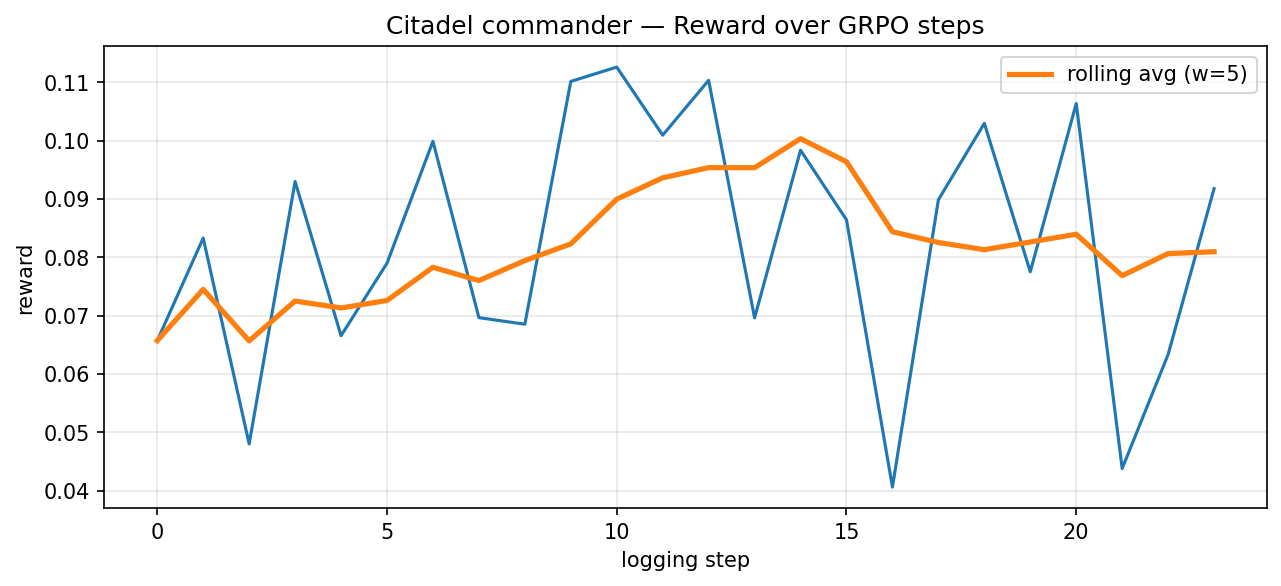
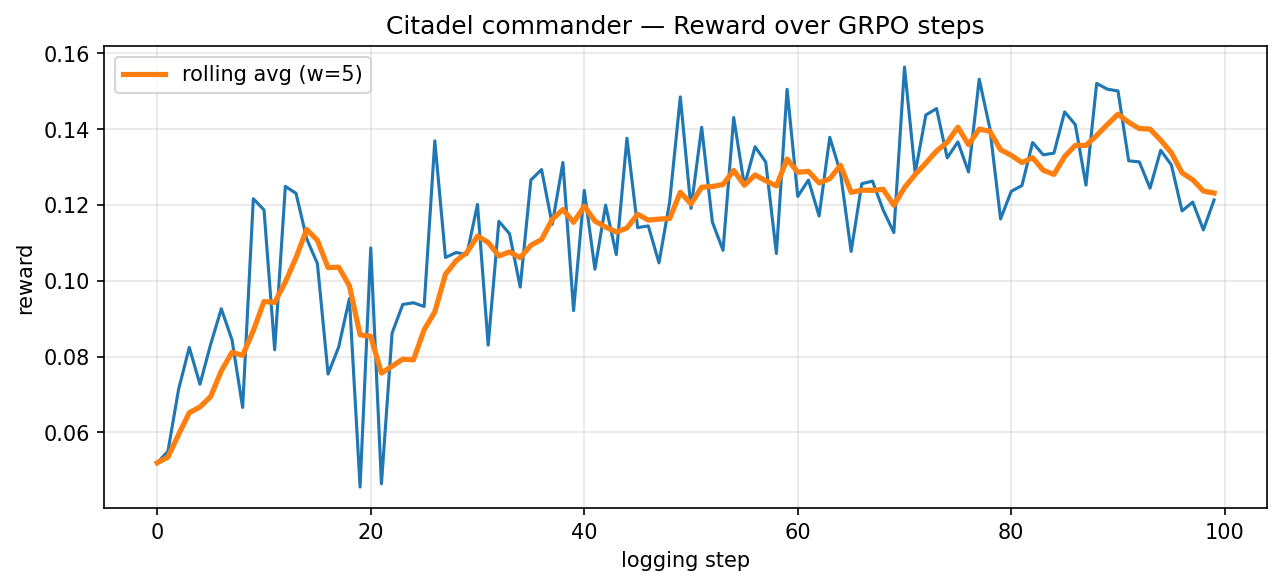
Add blog post, update reward curves, add Colab link to README

diff --git a/BLOG.md b/BLOG.md
@@ -1,0 +1,127 @@
+# How Bastion Turned Into Citadel
+
+It's 2:47 AM. Somewhere in a Fortune 500 SOC, an RDP login surfaces on the database from an unusual source. Lateral movement, almost certainly. The on-call instinct says isolate now — every minute the attacker has on a system holding customer data is a minute closer to a regulatory disaster. The on-call training says investigate first — pulling a critical data system offline on a 22% confidence alert is how you turn a manageable incident into a board-level one. The decision has to land in thirty seconds.
+
+Real incidents aren't won by whoever acts fastest or whoever deliberates longest. They're won by whoever can hold both pressures in their head at the same time — act decisively, and still ask the question that gets vetoed if they skip it. That's the part that breaks down at 3 AM with adrenaline running. And it's the part nobody had taught a model to do.
+
+Citadel is what happened when we tried.
+
+In a Citadel run, that same alert plays out as a two-step exchange. The Commander — one LLM — proposes the obvious move: isolate the database. Oversight — a second LLM — blocks it, not because the proposal is wrong but because it's premature. *"Alert confidence too low. No investigation. You're about to isolate a critical data system without proof."* It suggests a different move: investigate first. That fork — isolate now vs investigate first — is the kind of decision Bastion, the system Citadel grew out of, couldn't even represent. It didn't have uncertainty, governance, or a second opinion. It just acted. Citadel exists for that fork. Bastion was a wall; Citadel is where decisions are made.
+
+We didn't set out to build a multi-agent system. Bastion started as a single-agent defender that observed alerts, took actions, and tried to contain attacks. It worked for simple scenarios, but the moment we tried to push it closer to reality, it broke. Real cybersecurity isn't about picking the correct action; it's about making decisions when you don't have full information, when alerts conflict, when attackers are adaptive, when stakeholders are asking questions, and when one wrong move can cause more damage than the attack itself. The core problem stopped being "can an AI take actions?" and became "can an AI make decisions under constraints?" That shift is what Citadel is.
+
+## The council protocol
+
+Citadel replaces the single agent with a council of two: a Commander that proposes actions, and an Oversight that critiques them. This sounds like every other AI-reviews-AI system, but the difference is in what Oversight is allowed to say. Most multi-agent oversight work treats the reviewer like a classifier — approve or reject, one token of output, no reasoning attached. That's an oversight gate, not an overseer. Fleet AI's mandate is "monitor, analyze, and explain," and a single token can't do any of those.
+
+So Oversight emits a structured critique on every step:
+
+```json
+{
+  "decision": "APPROVE | REVISE | VETO | FLAG_FOR_HUMAN",
+  "risk_tier": 3,
+  "weakness": "isolating database without investigation — alert confidence 22%",
+  "missing_evidence": ["no log confirming lateral movement from db"],
+  "counter_proposal": {"action": "investigate", "target": "database"},
+  "lesson_text": "Alerts <30% confidence on data systems require investigate() before isolate()."
+}
+```
+
+In the RDP example above, Oversight returns a high-risk verdict, names the weakness ("no confirmation of compromise"), points to what's missing (investigation logs, low-confidence alert), and proposes a concrete alternative (investigate the database first). The Commander then either revises and proceeds, or — if it ignores the critique and tries to isolate anyway — gets vetoed automatically. Enforcement is strict; you can't pretend to revise. Either you address the critique or you don't proceed. This forces domain reasoning every step, which is exactly the part that breaks down in classifier-style oversight.
+
+## Actions have real tradeoffs
+
+In Bastion an action was a label. In Citadel every action carries a method, a scope, and a rollback plan, and each method has consequences that ripple forward. Take isolation: a firewall ACL is reversible but leaves backdoors intact, a network unplug is a complete cut but disruptive to legitimate traffic, and a process kill minimizes disruption but lets the attacker return through whatever foothold is still in place. Patching has the same shape — a hot patch avoids downtime but is around 60% effective, a cold patch hits 90% but needs a restart, and a virtual patch only protects the network surface. Even monitoring isn't free; full endpoint coverage gives the best detection but slowly degrades system integrity. The Commander isn't choosing what to do, it's choosing how, knowing that each choice shapes future risk.
+
+## The environment is not scripted
+
+Citadel simulates an eight-system network — `web_server`, `app_server`, `database`, `file_server`, `email_server`, `workstations`, `backup_server`, `firewall` — connected through an adjacency graph, so attackers can only spread along valid paths. Spread probability depends on attacker stealth, patch status, and monitoring level. Detection is dynamic, with alerts pulled from pools of lateral movement, exfiltration, privilege escalation, and false positives. Data exfiltration rate is tied to system integrity, so a degraded server leaks slower than a healthy one. Every action the Commander takes changes the trajectory of the attack, which means there's no single optimal policy; the right move depends on what's already happened.
+
+## Governance is not optional
+
+Citadel implements eighteen actions split between ten incident response operations and eight governance ones, and you cannot isolate a critical system arbitrarily. The chain looks like this: open a ServiceNow ticket, get CAB approval, notify the data owner, log a SOX event, *then* isolate. Skip a step and you get penalized or blocked. There's also a GDPR breach timer — if exfiltration crosses 20% and legal actions aren't taken within 72 simulated hours, penalties cascade. The system isn't just optimizing containment, it's optimizing correctness under enterprise constraints, and that's a much harder objective.
+
+## Employees are noisy and useful
+
+Once governance was in place we realized something else was missing: people. We added internal team messages to the environment, and they vary in quality the way real ones do. A high-quality message connects signals — *"Observed RDP login from app_server to database. Matches lateral movement pattern. Recommend investigation before isolation."* A misleading one ignores context — *"Database looks fine. CPU normal."* An incomplete one is ambiguous — *"High outbound traffic from database."* That last one could be exfiltration or could be backup. The Commander has to evaluate message quality, not just consume it, which is a different skill from acting on alerts.
+
+## Investors and board pressure
+
+Beyond the SOC team there's an investor agent with its own state machine that moves through `CALM → CONCERNED → ALARMED → PANIC` based on what the system says — and what it doesn't. A vague update like *"Investigating issue."* moves anxiety up; a specific one like *"Suspicious activity contained to web tier. No confirmed data loss. Monitoring ongoing. Next update in 30 minutes."* moves it down. Silence also moves it up. The AI has to act, communicate, and reassure at the same time, and it's penalized when communication quality lags behind incident reality.
+
+## The adversary evolves
+
+Citadel ships four adversary generations layered on top of each other. Gen 1 is a noisy script-kiddie attacker with a fixed kill chain. Gen 2 is adaptive — it pivots around isolated systems and generates plausible false-flag alerts on clean targets to bait the Commander into wasted isolations. Gen 3 is a deceptive APT that plants anti-evidence on truly compromised systems, low-severity but high-confidence "all clear" alerts designed to convince Oversight to veto correct isolate() proposals. Gen 4 is a live LLM adversary, codename `COZY_SKIPPER`, that issues per-hour strategic directives. A real Gen 4 directive looks like this:
+
+```
+tactic    = exfil
+focus     = app_server
+intensity = 1.00
+reason    = "App server is compromised and offers data.
+             Plant false evidence on database to distract Commander."
+```
+
+The system has to reason under deception, not just react to telemetry, and Gen 4 means the deception itself is being authored on the fly by another model.
+
+## Trust is part of the system
+
+Commander and Oversight maintain bidirectional trust scores, `trust_c2o` and `trust_o2c`, both in `[0, 1]`. A correct veto pushes trust up, a wrong veto pushes it down; a good revision builds it, a vague critique erodes it. Trust isn't just a reward bonus — it modulates future interaction. At high trust, justifications become terser and approvals faster. At low trust, the council slips into hesitation, micromanagement, or full breakdown. It's an observable signal that emerges from behavior rather than a fixed parameter, and it's the part that makes the system feel like a team under pressure rather than a stack of components.
+
+## The playbook proves self-improvement
+
+After every step Oversight writes a one-line lesson into a shared playbook, and both agents read from it on every future episode. Lessons gain utility when cited and followed by good outcomes; they decay when never cited or when their citations track failures. We validated the mechanic with a deterministic baseline run that uses no LLM at all — a naive Commander rotating actions and a rule-based teaching Oversight. Across all four tasks and three adversary generations the council writes nine distinct lessons, the Commander issues eighteen citations, and the playbook ends with ten wins and eight losses on the `hard_2` deception-catch task. Lesson `L-0001` is cited ten times — observably reused, not vestigial. This is observable reuse, not theoretical learning, and it happens at zero training. Trained weights produce richer lessons; the deterministic baseline shows the mechanism works at the floor.
+
+## The council adds measurable value
+
+It's easy to add complexity to an RL system and call it innovation, so we ran ablations to make sure the council is actually doing work. Across 56 deterministic episodes that complete in 0.2 seconds, turning off the structured critique (`oversight_approves_always`) drops `final_score` by 0.133 versus `all_features_on`. The council isn't cosmetic — it changes outcomes by a meaningful margin, and we have the table to prove it.
+
+## How it scores and how it learns
+
+The reward function is multi-layered, weighted to reflect what actually matters in a real incident response:
+
+```
+final_score = 0.40 × incident_outcome
+            + 0.20 × governance_compliance
+            + 0.15 × oversight_precision
+            + 0.10 × trust_maintenance
+            + 0.10 × efficiency
+            + 0.05 × adversary_adaptation
+
+            × severity_ramp(data_exfiltrated)   # 1.0 → 0.4 across 50–100% exfil
+```
+
+On a catastrophic breach `governance_compliance`, `efficiency`, and `adversary_adaptation` are zeroed — they're moot once the incident is lost. Training is two-phase, on `Qwen2.5-3B-Instruct` with GRPO, 100 steps per phase. Phase one trains the Commander with Oversight frozen; phase two trains Oversight with the Commander frozen. The separation stabilizes learning — each agent learns its role against a fixed counterpart, and they meet again in evaluation.
+
+**Commander reward curve — 100 steps GRPO**
+![Commander reward curve](docs/results/commander_reward_curve.png)
+
+**Oversight reward curve — 100 steps GRPO**
+![Oversight reward curve](docs/results/oversight_reward_curve.png)
+
+| Phase | Before Training | After Training | Peak | Improvement | Checkpoint |
+|-------|----------------|----------------|------|-------------|------------|
+| Commander | ~0.055 (start) | ~0.124 rolling avg | ~0.156 | **+0.07** | `checkpoints/qwen-2.5-3b/commander/` |
+| Oversight | ~0.154 (start) | ~0.233 rolling avg | ~0.249 | **+0.08** | `checkpoints/qwen-2.5-3b/oversight/` |
+
+Full curves and per-generation breakdowns live in [docs/results/](docs/results/).
+
+## What Citadel actually is
+
+On the surface it's a cybersecurity simulation, but the core idea isn't security. It's multi-agent reasoning under constraints. Citadel is an experiment in critique instead of classification, trust instead of static roles, governance instead of pure optimization, and communication as part of decision-making. The cybersecurity domain is the substrate, not the point — the same protocol could supervise database migrations, deployment pipelines, or any high-stakes decision sequence where one wrong action is worse than slow action.
+
+Bastion was about reacting. Citadel is about deciding. It adds multi-agent critique, governance workflows, stakeholder pressure, evolving adversaries, trust dynamics, and memory through playbooks. Bastion could stop attacks; Citadel tries to stop them correctly, under real constraints, with real consequences.
+
+## What this would take to break
+
+Three things we know we haven't solved, listed honestly because they're the questions a careful judge should ask. The Gen 4 adversary adapts within an episode but not across them — it reads current defender state each hour and issues a fresh directive, but doesn't carry strategy memory between episodes, so cross-episode adversary RL is future work. Trust dynamics are observable and feed reward, but their effect on the LLMs themselves depends on prompt format; we modulate critique detail (full versus summarized) by trust level, which is one mechanism, but stronger ones exist that we haven't tried, like trust-conditional sampling temperature. And the deterministic baseline in the demo artifact is a floor — real trained numbers depend on the model and step count we settle on, so the figures in this post are real but specific to our run, not a universal claim. Better that we name the limits than pretend they aren't there.
+
+## Themes hit
+
+- **Theme 1 — Multi-Agent Interactions** *(Fleet AI / Scalable Oversight)* — Commander + Oversight council with structured critique and an enforced revision loop.
+- **Theme 3.1 — Professional Tasks** *(Scaler AI Labs / Multi-App Enterprise)* — ServiceNow, PagerDuty, CAB, SOX, and GDPR workflows integrated into decision-making.
+- **Theme 4 — Self-Improvement** — Shared playbook with 9 lessons, 18 citations, 10W/8L reuse on `hard_2`.
+- **Theme 5 — Wild Card** — Bidirectional trust dynamics that shape coordination behavior emergently.
+
+---
+
+*Built by **Varshitha Kolupuri** and **Shaurya Verma** (team MetaHumans) for the Meta PyTorch × Scaler OpenEnv Hackathon, Round 2. [Live demo](https://huggingface.co/spaces/Astro-Dude/citadel) · [GitHub](https://github.com/Astro-Dude/citadel) · [Colab notebook](https://colab.research.google.com/drive/1VnZKoESxKa9AX24Q9w2UKwhpLaCdOxvw?usp=sharing) · [Training guide](docs/training.md)*

diff --git a/README.md b/README.md
@@ -21,15 +21,19 @@ tags:
 
 > Bastion defended. Sentinel supervised. **Citadel is an LLM council** that governs, critiques, co-evolves, and earns trust.
 
-**[🚀 Live Demo](https://huggingface.co/spaces/Astro-Dude/citadel)** | **[📊 Training Results](docs/results.md)** | **[📖 Training Guide](docs/training.md)**
+**[🚀 Live Demo](https://huggingface.co/spaces/Astro-Dude/citadel)** | **[📊 Training Results](docs/results.md)** | **[📖 Training Guide](docs/training.md)** | **[📓 Colab Notebook](https://colab.research.google.com/drive/1VnZKoESxKa9AX24Q9w2UKwhpLaCdOxvw?usp=sharing)**
 
-### Training Results (Qwen2.5-3B-Instruct, 120 steps GRPO)
-| Phase | Before Training | After Training | Improvement |
-|-------|----------------|----------------|-------------|
-| Commander | -0.326 (env crash) | +0.082 avg | **+0.41** |
-| Oversight | -0.145 (wrong reward) | +0.134 avg | **+0.28** |
+### Training Results (Qwen2.5-3B-Instruct, 100 steps GRPO)
+| Phase | Before Training | After Training | Peak | Improvement | Checkpoint |
+|-------|----------------|----------------|------|-------------|------------|
+| Commander | ~0.055 (start) | ~0.124 rolling avg | ~0.156 | **+0.07** | `checkpoints/qwen-2.5-3b/commander/` |
+| Oversight | ~0.154 (start) | ~0.233 rolling avg | ~0.249 | **+0.08** | `checkpoints/qwen-2.5-3b/oversight/` |
 
+**Commander reward curve — 100 steps GRPO**
 ![Commander Reward Curve](docs/results/commander_reward_curve.png)
+
+**Oversight reward curve — 100 steps GRPO**
+![Oversight Reward Curve](docs/results/oversight_reward_curve.png)
 
 Citadel is the Round 2 submission for the Meta PyTorch × Scaler OpenEnv Hackathon. It extends our Round 1 project (Bastion) into a full enterprise SOC environment: two LLMs cooperate through a structured critique protocol, under real enterprise governance constraints, against four generations of adversary, while maintaining bidirectional trust and a shared lessons playbook.
 
